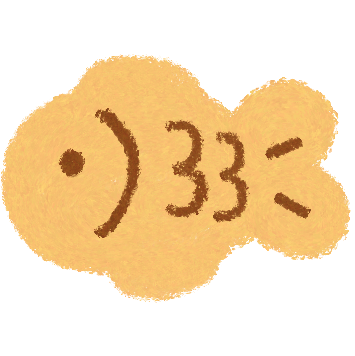
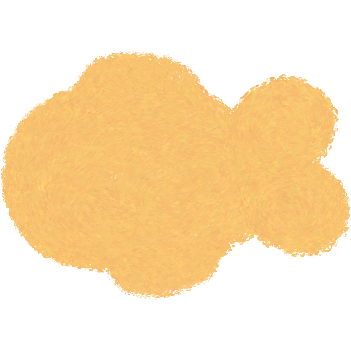
[feat] 일자별 붕어 매치, 디자인 적용, css 수정

diff --git a/src/pages/calendar/CalendarPage.js b/src/pages/calendar/CalendarPage.js
@@ -1,11 +1,14 @@
-import React, { useState, useEffect } from 'react';
-import { useNavigate } from 'react-router-dom';
-import Calendar from 'react-calendar';
-import 'react-calendar/dist/Calendar.css';
+import React, { useState, useEffect } from "react";
+import { useNavigate } from "react-router-dom";
+import Calendar from "react-calendar";
+import "react-calendar/dist/Calendar.css";
 import moment from "moment";
-import styles from './CalendarPage.module.css'; // CSS 모듈 불러오기
-import calBunImage from '../../assets/cal-bun.png';
-import diaryLine from '../../assets/diaryLine.png'
+import styles from "./CalendarPage.module.css"; // CSS 모듈 불러오기
+import calBunImage from "../../assets/cal-bun.png";
+import calBunEmpty from "../../assets/cal-bun-empty.png";
+import diaryLine from "../../assets/diaryLine.png";
+import paperOnCheckT from "../../assets/paperOnCheckT.jpg";
+import paperOnCheckB from "../../assets/paperOnCheckB.jpg";
 
 function CalendarPage() {
   const [value, setValue] = useState(new Date());
@@ -13,46 +16,59 @@ function CalendarPage() {
   const navigate = useNavigate(); // useNavigate 훅 초기화
 
   // 서버에서 가져올 데이터 지금은 예시
-  const specialDates = [{ "date": "2024-12-30", "id": "1" },
-  { "date": "2024-12-07", "id": "2" },
-  { "date": "2024-12-01", "id": "3" },
-  { "date": "2024-12-15", "id": "4" }];
+  const specialDates = [
+    { date: "2024-12-30", id: "1" },
+    { date: "2024-12-07", id: "2" },
+    { date: "2024-12-01", id: "3" },
+    { date: "2024-12-15", id: "4" },
+  ];
 
   useEffect(() => {
-    const dates = specialDates.map(item => item.date);
+    const dates = specialDates.map((item) => item.date);
     setDateArray(dates);
   }, []); // 빈 배열을 넣어 한 번만 실행되도록 설정
 
-
   const handleDateChange = (date) => {
-    const formattedDate = moment(date).format("YYYY-MM-DD")
+    const formattedDate = moment(date).format("YYYY-MM-DD");
     setValue(formattedDate);
-    const selectedDate = specialDates.find(item => item.date === formattedDate);
-    console.log('선택된 날짜:', selectedDate);
+    const selectedDate = specialDates.find(
+      (item) => item.date === formattedDate
+    );
+    console.log("선택된 날짜:", selectedDate);
     if (selectedDate) {
       navigate(`/detail/${selectedDate.id}`);
     }
   };
 
   return (
-    <div className="flex flex-col w-full h-screen overflow-auto">
-      <div>
-        <div className="text-title items-center m-3">붕어 탐험일지</div>
-        <div className="grow-0 items-start justify-center mx-6">
+    <div className="w-full flex-grow flex flex-col">
+      <div className="w-full h-max">
+        <img src={paperOnCheckT} alt="상단 배너" />
+      </div>
+      <div
+        className="w-full flex flex-col flex-grow bg-cover px-3 overflow-y-auto"
+        style={{ backgroundImage: `url(${paperOnCheckB})` }}
+      >
+        <div className="w-full text-sz45 text-center pt-3 text-point-color">
+          붕어 탐험 일지
+        </div>
+        <div className="flex-grow items-start justify-center">
           <img src={diaryLine} alt="Special" className="w-full" />
           <Calendar
             //locale="en"
             onChange={handleDateChange}
             value={value}
             className={styles.reactCalendar} // CSS 모듈로 커스텀 클래스 적용
-            formatDay={(locale, date) => moment(date).format('D')}
+            formatDay={(locale, date) => moment(date).format("D")}
             showNeighboringMonth={false} // 인접 월의 날짜 표시 안 함
             next2Label={null} // ">>" 버튼 숨기기
             prev2Label={null} // "<<" 버튼 숨기기
             //prevLabel={null} // "<" 버튼 숨기기
             //nextLabel={null} // ">" 버튼 숨기기
             navigationLabel={({ date }) => (
-              <span className="text-lg font-bold">{moment(date).format('MM')}월</span>
+              <span className="text-lg font-bold">
+                {moment(date).format("MM")}월
+              </span>
             )}
             tileContent={({ date, view }) => {
               if (view === "month") {
@@ -63,7 +79,21 @@ function CalendarPage() {
                 if (dateArray.includes(dateString)) {
                   return (
                     <div className="flex justify-center">
-                      <img src={calBunImage} alt="Special" className="w-6 h-6" />
+                      <img
+                        src={calBunImage}
+                        alt="Special"
+                        className="w-[75%] aspect-[1/1]"
+                      />
+                    </div>
+                  );
+                } else {
+                  return (
+                    <div className="flex justify-center">
+                      <img
+                        src={calBunEmpty}
+                        alt="Special"
+                        className="w-[75%] aspect-[1/1]"
+                      />
                     </div>
                   );
                 }
@@ -73,8 +103,10 @@ function CalendarPage() {
           />
           <img src={diaryLine} alt="Special" className="w-full" />
         </div>
-        <div className="text-sz25 items-center m-6">
-          이번달은 <span className="text-orange-500 font-bold">{dateArray.length}</span>마리의 붕어빵을 먹었어요!
+        <div className="text-sz25 items-center my-6">
+          이번달은{" "}
+          <span className="text-orange-500 font-bold">{dateArray.length}</span>
+          마리의 붕어빵을 먹었어요!
         </div>
       </div>
     </div>

diff --git a/src/pages/calendar/CalendarPage.module.css b/src/pages/calendar/CalendarPage.module.css
@@ -1,10 +1,10 @@
 :global(.react-calendar) {
-  @apply rounded-xl w-full min-w-[300px] max-w-[600px] h-full max-h-[550dvh] bg-[url('../../assets/bg-paperptexture.jpg')] border-none font-hakgyo;
+  @apply rounded-xl w-full max-w-[600px] h-full border-none font-hakgyo bg-[transparent];
 }
 
-:global(.react-calendar__viewContainer) {
+/* :global(.react-calendar__viewContainer) {
   @apply mb-3;
-}
+} */
 
 :global(.react-calendar__month-view__weekdays__weekday abbr) {
   @apply no-underline text-sz30;
@@ -12,7 +12,7 @@
 }
 
 :global(.react-calendar__tile) {
-  @apply h-[8dvh] max-h-full flex items-center text-sz25 flex-col;
+  @apply h-[7dvh] max-h-full flex items-center justify-center text-sz25 flex-col;
   /* 날짜 셀 스타일 */
 }
 
@@ -34,22 +34,22 @@
 }
 
 :global(.react-calendar__month-view__days__day--weekend) {
-  @apply text-black;
+  @apply text-black flex justify-center;
   /* 텍스트 스타일 */
 }
 
 :global(.react-calendar__tile--now) {
-  @apply bg-transparent;
+  @apply bg-transparent bg-[#94302f] rounded-lg;
 }
 
 :global(.react-calendar__tile--now abbr) {
-  @apply bg-orange-300 rounded-full text-black font-bold w-[3dvh] h-[3dvh];
+  @apply rounded-full text-white font-bold w-[3dvh] h-[3dvh];
 }
 
 :global(.react-calendar__tile:enabled:hover),
 :global(.react-calendar__tile:enabled:focus),
 :global(.react-calendar__tile--active) {
-  @apply bg-blue-200 text-black rounded-lg;
+  @apply text-black rounded-lg bg-blue-100;
   @apply transition-all duration-150 ease-in-out;
   /* 애니메이션 효과 추가 */
 }
